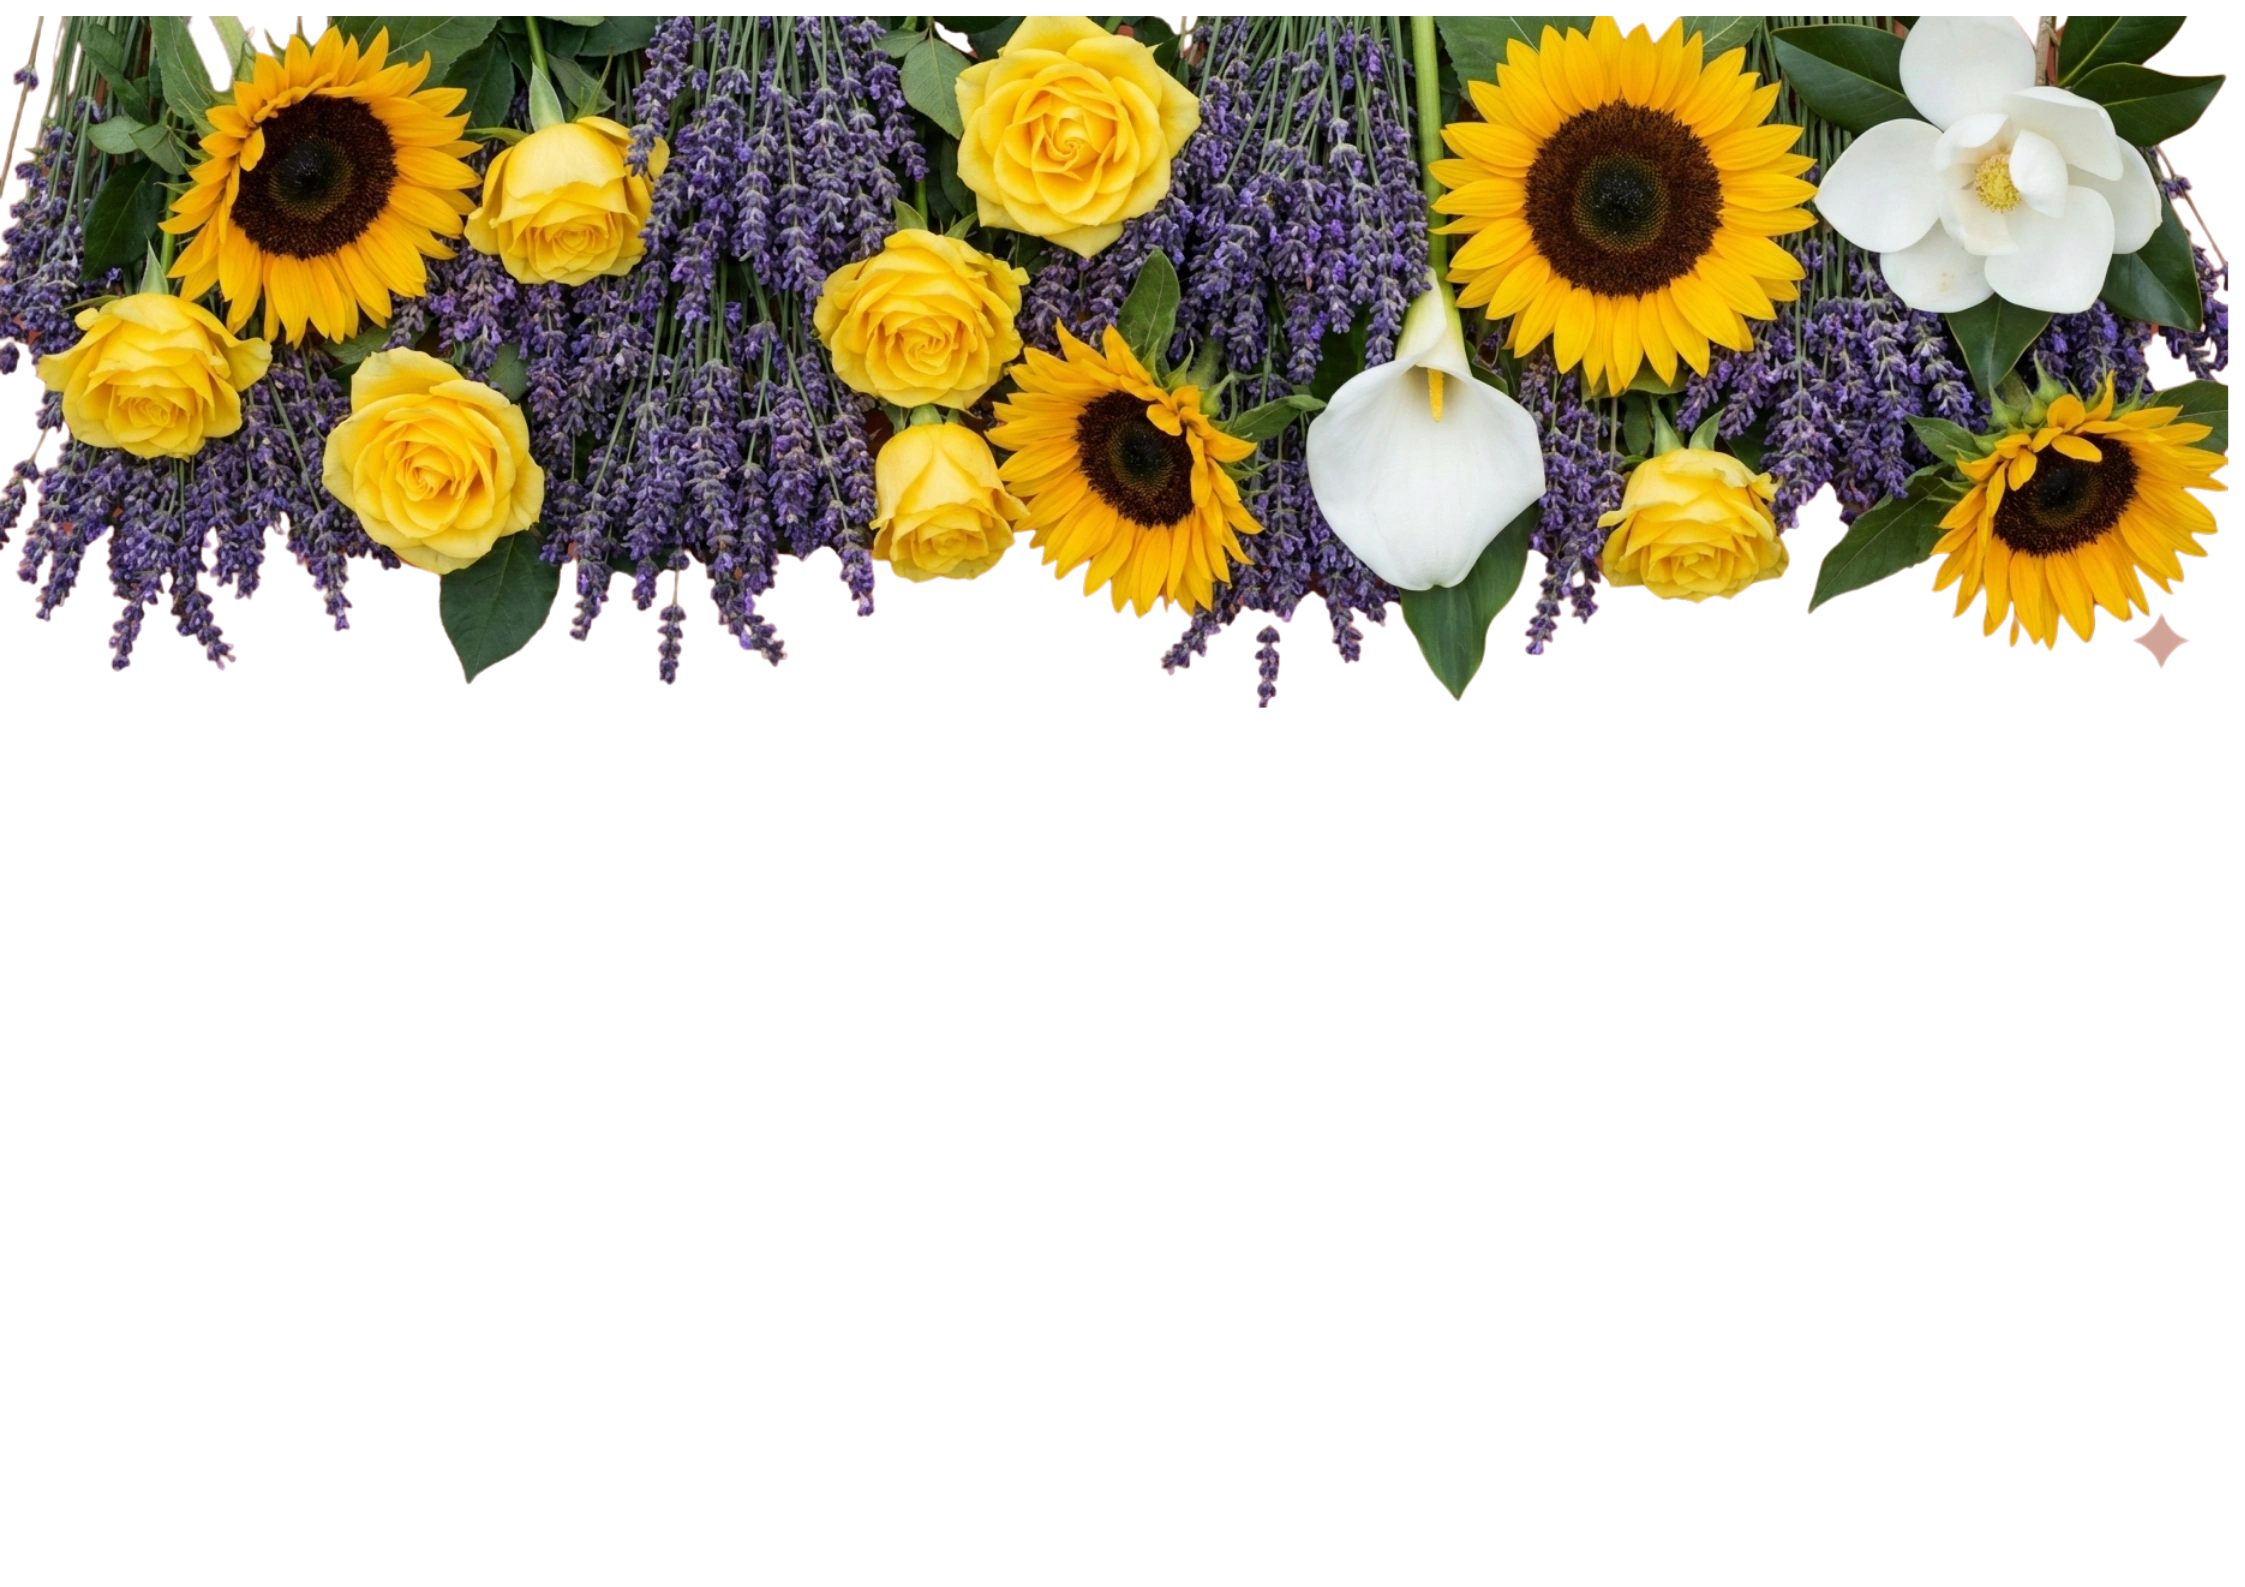
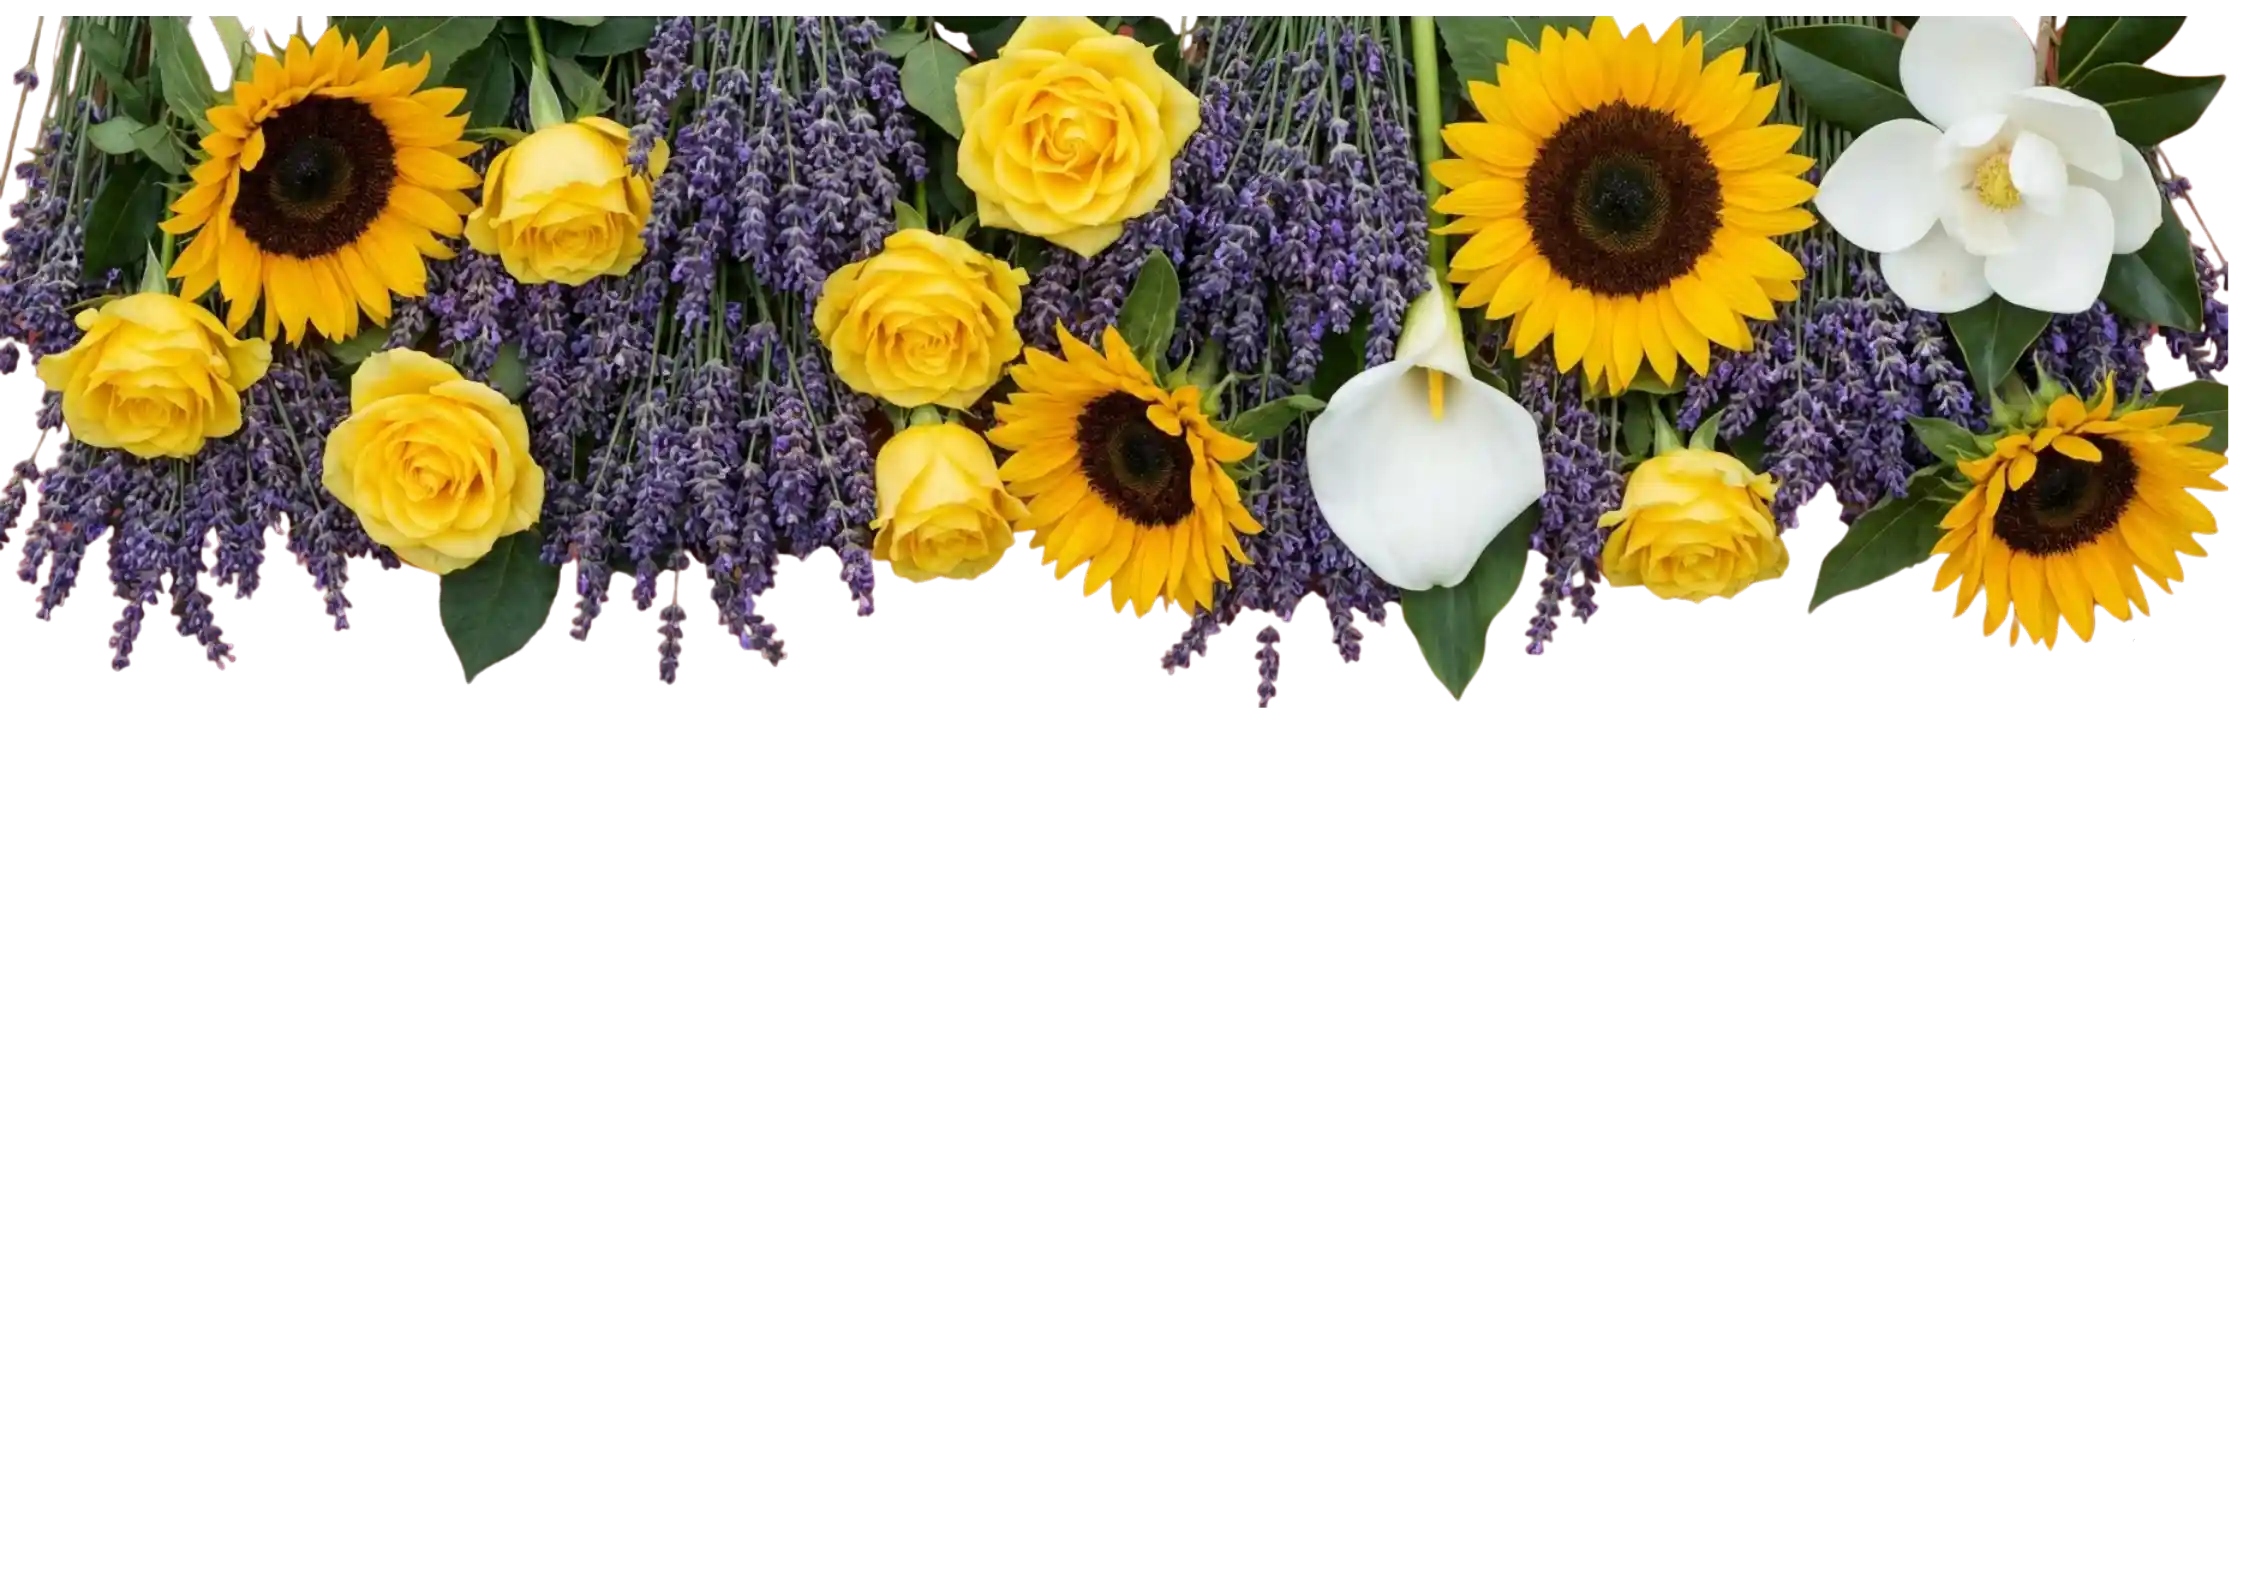
Se adelgazan los kb de todas las fotos. Se crea un favi.ico de pagina pc

Changed region(s): [[0.9354, 0.3705, 0.9666, 0.4323]]

diff --git a/client/src/pages/Home.tsx b/client/src/pages/Home.tsx
@@ -275,7 +275,7 @@ export default function Home() {
           <img src="/images/vestuario.webp" alt="Dress Code" className="w-[30%] h-auto" />
         </div>
         <p className="text-lg text-muted-foreground">
-          Ropa formal elegante. Invitamos a los caballeros a usar traje y corbata, y a las damas a optar por vestidos largos o de cóctel, acorde a la ocasión.
+          Se reserva el celeste pastel para el novio y blanco para la novia. Invitamos a los caballeros a usar traje y corbata, y a las damas a optar por vestidos largos o de cóctel, acorde a la ocasión.
         </p>
         <FloralSeparator className="-mt-4 md:-mt-8" />
 

diff --git a/client/index.html b/client/index.html
@@ -6,6 +6,7 @@
     <meta
       name="viewport"
       content="width=device-width, initial-scale=1.0, maximum-scale=1" />
+    <link rel="icon" type="image/webp" href="/images/marco-corazon-nico-carli-logo.webp" />
     <title>Invitación de Boda - Nicolás & Carli</title>    
     <link rel="preconnect" href="https://fonts.googleapis.com" />
     <link rel="preconnect" href="https://fonts.gstatic.com" crossorigin />
